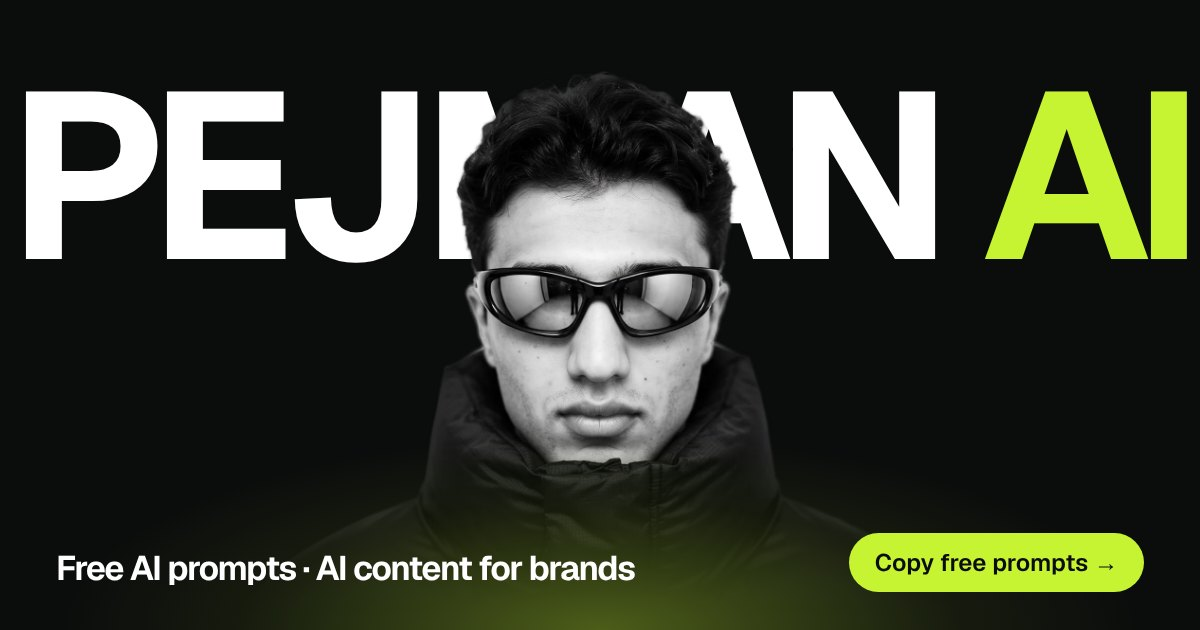
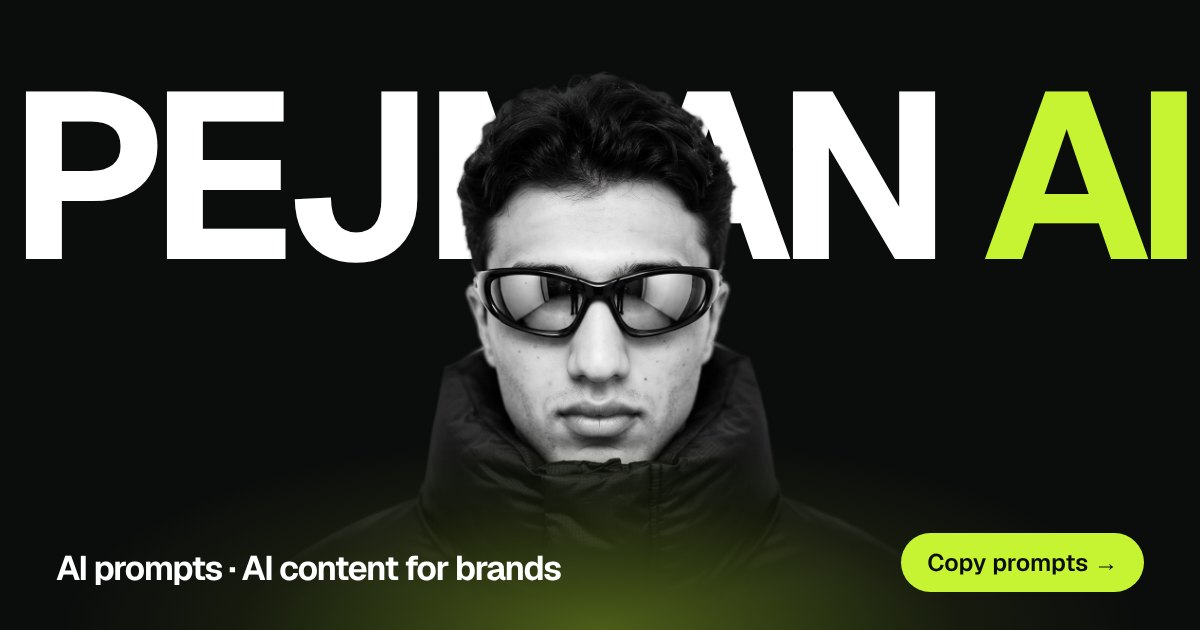
Drop "free" from prompt wording across the site
Claude-Session: https://claude.ai/code/session_01WJYvPUGwT2FXqZD8pAGYA4

Changed region(s): [[0.0308, 0.8746, 0.5242, 0.9349], [0.7092, 0.8444, 0.8325, 0.9651]]

diff --git a/index.html b/index.html
@@ -3,8 +3,8 @@
   <head>
     <meta charset="UTF-8" />
     <meta name="viewport" content="width=device-width, initial-scale=1.0, viewport-fit=cover" />
-    <title>PEJMAN AI — AI photos, motion, websites & automations · Free AI prompts</title>
-    <meta name="description" content="PEJMAN AI by Pejman Ansaribarz: free AI image prompts you can copy in one tap, plus AI photos, motion videos, websites and AI automations for brands. On-site in Bangkok, remote worldwide, 7 days a week." />
+    <title>PEJMAN AI — AI photos, motion, websites & automations · AI prompts</title>
+    <meta name="description" content="PEJMAN AI by Pejman Ansaribarz: AI image prompts you can copy in one tap, plus AI photos, motion videos, websites and AI automations for brands. On-site in Bangkok, remote worldwide, 7 days a week." />
     <meta name="theme-color" content="#0B0D0C" />
     <meta name="color-scheme" content="dark light" />
     <link rel="canonical" href="https://ghosmali22-prog.github.io/pejman-ai/" />
@@ -17,15 +17,15 @@
     <!-- Open Graph / social previews -->
     <meta property="og:type" content="website" />
     <meta property="og:site_name" content="PEJMAN AI" />
-    <meta property="og:title" content="PEJMAN AI — Free AI prompts & AI content for brands" />
-    <meta property="og:description" content="Copy free AI image prompts in one tap. Hire Pejman for AI photos, motion videos, websites and AI automations." />
+    <meta property="og:title" content="PEJMAN AI — AI prompts & AI content for brands" />
+    <meta property="og:description" content="Copy AI image prompts in one tap. Hire Pejman for AI photos, motion videos, websites and AI automations." />
     <meta property="og:url" content="https://ghosmali22-prog.github.io/pejman-ai/" />
     <meta property="og:image" content="https://ghosmali22-prog.github.io/pejman-ai/og-image.jpg" />
     <meta property="og:image:width" content="1200" />
     <meta property="og:image:height" content="630" />
     <meta name="twitter:card" content="summary_large_image" />
-    <meta name="twitter:title" content="PEJMAN AI — Free AI prompts & AI content for brands" />
-    <meta name="twitter:description" content="Copy free AI image prompts in one tap. Hire Pejman for AI photos, motion videos, websites and AI automations." />
+    <meta name="twitter:title" content="PEJMAN AI — AI prompts & AI content for brands" />
+    <meta name="twitter:description" content="Copy AI image prompts in one tap. Hire Pejman for AI photos, motion videos, websites and AI automations." />
     <meta name="twitter:image" content="https://ghosmali22-prog.github.io/pejman-ai/og-image.jpg" />
 
     <script type="application/ld+json">
@@ -62,7 +62,7 @@
         <h1 style="font-size: 40px; letter-spacing: -0.04em; margin: 0 0 16px">PEJMAN AI</h1>
         <p style="font-size: 18px; max-width: 560px; line-height: 1.5; color: #c9cbc9">
           AI photos, motion videos, websites &amp; automations by Pejman Ansaribarz — on-site in Bangkok, remote worldwide.
-          Please enable JavaScript to browse the free prompt library.
+          Please enable JavaScript to browse the prompt library.
         </p>
         <p style="font-size: 18px">
           <a style="color: #C6F432" href="mailto:ghosmali22@gmail.com">Email</a> ·

diff --git a/src/config/site.ts b/src/config/site.ts
@@ -8,16 +8,16 @@ export const SITE_URL = 'https://ghosmali22-prog.github.io/pejman-ai'
  */
 export const defaultSettings: SiteSettings = {
   hero: {
-    headline: 'AI images, motion, websites & automations. Free prompts to start.',
+    headline: 'AI images, motion, websites & automations. Prompts to start.',
     subline:
-      'I create AI photos, motion videos, websites and automations for brands and creators — and share the prompts behind my work for free.',
+      'I create AI photos, motion videos, websites and automations for brands and creators — and share the prompts behind my work.',
     availability: 'Available 7 days a week',
     location: 'On-site in Bangkok · Remote worldwide',
     tools: ['Midjourney', 'Nano Banana', 'GPT Image', 'Kling', 'Veo', 'Flux', 'n8n'],
   },
   about: {
     label: 'About Pejman',
-    text: "I'm Pejman Ansaribarz, an AI creator based in Bangkok. I make AI photos and videos, motion videos that stop the scroll, modern websites and automations that quietly save hours every week — and I share the prompts behind my work for free. Brands, founders and creators bring me a goal; I bring the tools and the taste to make it real. I work seven days a week, remotely with clients worldwide or on-site here in Bangkok. Start with my free prompts, and when you're ready for something custom, let's build it together.",
+    text: "I'm Pejman Ansaribarz, an AI creator based in Bangkok. I make AI photos and videos, motion videos that stop the scroll, modern websites and automations that quietly save hours every week — and I share the prompts behind my work. Brands, founders and creators bring me a goal; I bring the tools and the taste to make it real. I work seven days a week, remotely with clients worldwide or on-site here in Bangkok. Start with my prompts, and when you're ready for something custom, let's build it together.",
   },
   services: {
     heading: 'What I can build for you',
@@ -77,7 +77,7 @@ export const defaultSettings: SiteSettings = {
     instagram: 'peji_org',
   },
   footer: {
-    newsletter: 'Get new free prompts every week',
+    newsletter: 'Get new prompts every week',
   },
 }
 

diff --git a/src/sections/Hero.tsx b/src/sections/Hero.tsx
@@ -149,7 +149,7 @@ export function Hero() {
                 <span className="mb-2 inline-flex rounded-full bg-lime px-2.5 py-1 text-[11px] font-semibold uppercase tracking-wide text-ink">
                   Featured prompt
                 </span>
-                <p className="heading text-xl text-paper">{featured?.title ?? 'Free prompts'}</p>
+                <p className="heading text-xl text-paper">{featured?.title ?? 'Prompts'}</p>
               </div>
             </Link>
           </div>
@@ -157,10 +157,10 @@ export function Hero() {
           {/* Stat */}
           <div className="hero-card-wrap w-[52vw] shrink-0 snap-start sm:w-[32vw] md:w-auto">
             <div className="hero-card flex h-[230px] flex-col justify-between rounded-[28px] bg-lime p-5 text-ink md:h-[250px]">
-              <span className="text-sm font-medium">Free library</span>
+              <span className="text-sm font-medium">Prompt library</span>
               <div>
                 <p className="display text-[64px] leading-none">{count}+</p>
-                <p className="mt-2 text-sm font-medium">free prompts, ready to copy</p>
+                <p className="mt-2 text-sm font-medium">prompts, ready to copy</p>
               </div>
             </div>
           </div>
@@ -267,7 +267,7 @@ function HeroCopy({
           onClick={onBrowse}
           className="group inline-flex h-14 items-center justify-center gap-2 rounded-full bg-lime px-7 text-base font-semibold text-ink transition-transform duration-300 hover:scale-[1.03] active:scale-[0.98]"
         >
-          Browse free prompts
+          Browse prompts
           <ArrowRight className="size-5 transition-transform duration-300 group-hover:translate-x-1" />
         </button>
         <button

diff --git a/src/features/prompts/PromptModal.tsx b/src/features/prompts/PromptModal.tsx
@@ -44,7 +44,7 @@ export function PromptModal() {
   }, [open, lenis])
 
   useEffect(() => {
-    document.title = prompt ? `${prompt.title} — Free AI prompt · PEJMAN AI` : DEFAULT_TITLE
+    document.title = prompt ? `${prompt.title} — AI prompt · PEJMAN AI` : DEFAULT_TITLE
   }, [prompt])
 
   return (
@@ -103,7 +103,7 @@ function PromptDialog({ prompt, onClose, goHome }: { prompt?: Prompt; onClose: (
     const url = promptUrl(prompt.slug)
     if (navigator.share) {
       try {
-        await navigator.share({ title: `${prompt.title} — free AI prompt`, url })
+        await navigator.share({ title: `${prompt.title} — AI prompt`, url })
         return
       } catch {
         /* cancelled — fall through to copying the link */

diff --git a/src/sections/Prompts.tsx b/src/sections/Prompts.tsx
@@ -105,7 +105,7 @@ export function Prompts() {
         <div ref={headRef} className="pt-6 md:pt-10">
           <span className="mb-4 inline-flex items-center gap-2 text-sm font-medium md:mb-6">
             <span className="size-2 rounded-full bg-lime-2" />
-            Free prompt library
+            Prompt library
           </span>
           <h2
             className="display flex items-center justify-center whitespace-nowrap text-[17.5vw] xl:text-[232px]"

diff --git a/src/components/layout/Footer.tsx b/src/components/layout/Footer.tsx
@@ -25,7 +25,7 @@ export function Footer() {
   }
 
   const explore: { id: SectionId; label: string }[] = [
-    { id: 'prompts', label: 'Free prompts' },
+    { id: 'prompts', label: 'Prompts' },
     { id: 'about', label: 'About' },
     { id: 'services', label: 'Services' },
     { id: 'contact', label: 'Contact' },
